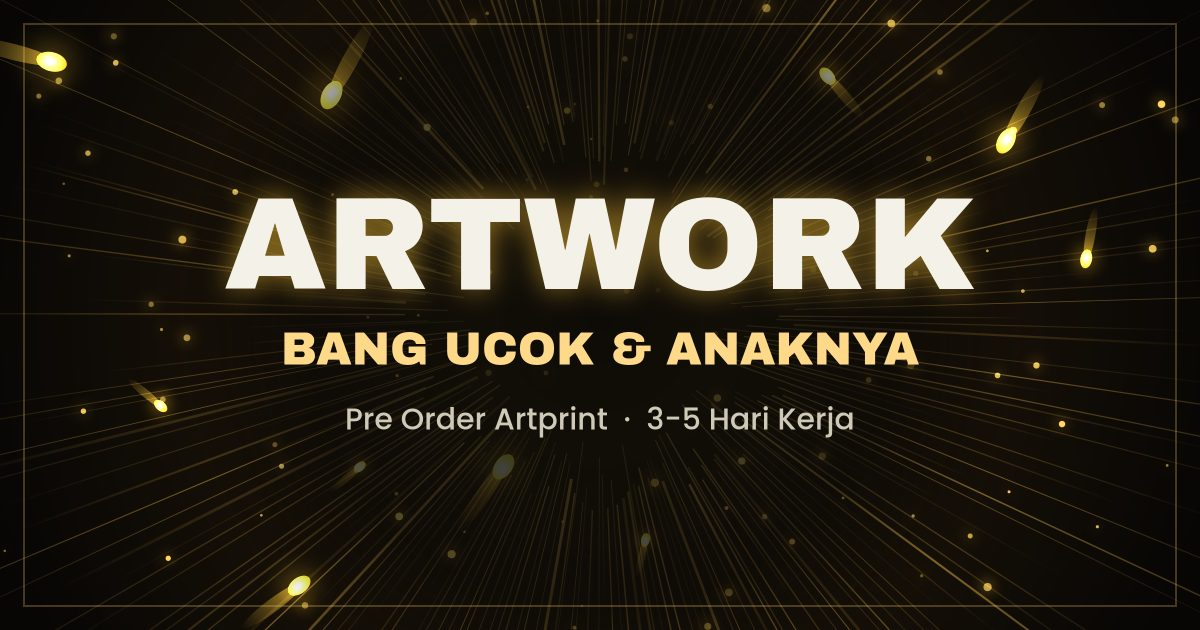
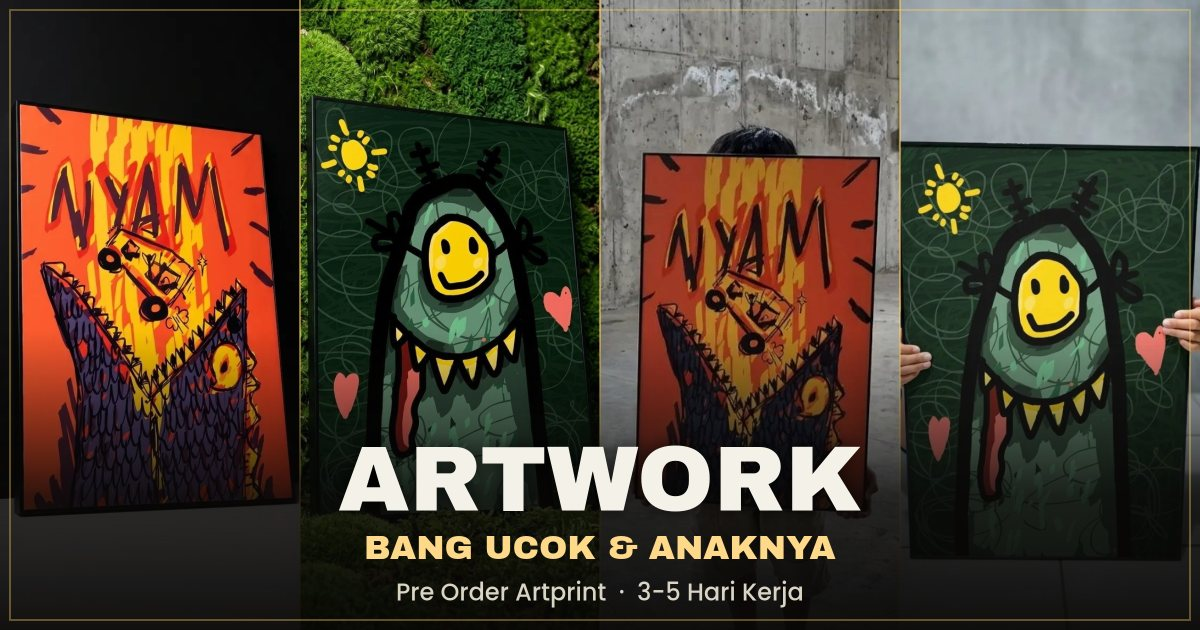
Add files via upload

diff --git a/galeri.html b/galeri.html
@@ -4,6 +4,20 @@
 <meta charset="utf-8">
 <meta name="viewport" content="width=device-width, initial-scale=1, viewport-fit=cover">
 <title>Galeri Artprint | @sayabangucok</title>
+<meta name="description" content="Pre Order Artprint karya Bang Ucok &amp; Anaknya. Pilih karya, masukkan keranjang, pesan lewat WhatsApp.">
+<!-- GANTI ALAMAT-WEBMU di semua baris di bawah ini dengan alamat web aslimu (contoh: https://namamu.github.io/namarepo), tanpa garis miring di belakangnya -->
+<link rel="canonical" href="https://ALAMAT-WEBMU/galeri.html">
+<meta property="og:type" content="website">
+<meta property="og:site_name" content="@sayabangucok">
+<meta property="og:title" content="Artwork Bang Ucok &amp; Anaknya | Pre Order Artprint">
+<meta property="og:description" content="Pilih karya, masukkan keranjang, pesan lewat WhatsApp.">
+<meta property="og:url" content="https://ALAMAT-WEBMU/galeri.html">
+<meta property="og:image" content="https://ALAMAT-WEBMU/og-galeri.jpg">
+<meta property="og:image:width" content="1200">
+<meta property="og:image:height" content="630">
+<meta name="twitter:card" content="summary_large_image">
+<meta name="twitter:title" content="Artwork Bang Ucok &amp; Anaknya | Pre Order Artprint">
+<meta name="twitter:image" content="https://ALAMAT-WEBMU/og-galeri.jpg">
 <link rel="stylesheet" href="https://fonts.googleapis.com/css2?family=Archivo+Black&family=Poppins:wght@400;500&display=swap">
 <style>
 :root{--bg:#0a0a0a;--ink:#f4f1e8;--muted:#9a9a9a;--gold:#ffd98a;color-scheme:dark;box-sizing:border-box;padding-top:env(safe-area-inset-top,0px);padding-bottom:env(safe-area-inset-bottom,0px)}
@@ -83,6 +97,22 @@ header h2{margin:8px 0 0;font-family:"Archivo Black",Impact,sans-serif;font-weig
 .toast[hidden]{display:none}
 .toast .tt{overflow:hidden;text-overflow:ellipsis;max-width:52vw}
 .toast button{border:0;background:none;color:#3a2a08;text-decoration:underline;font:inherit;cursor:pointer;padding:0}
+.flt{display:flex;gap:8px;justify-content:center;flex-wrap:wrap;margin:0 auto 22px}
+.flt button{padding:8px 16px;border-radius:999px;border:1px solid rgba(255,210,90,.55);background:rgba(255,210,90,.1);color:#ffe9a8;font-size:14px;font-weight:500;cursor:pointer;transition:background .2s,color .2s}
+.flt button[aria-pressed=true]{background:var(--gold);color:#3a2a08}
+.msg0{grid-column:1/-1;text-align:center;color:var(--muted);font-size:14px;padding:30px 0}
+.meta .by{margin:3px 0 0;color:#cfcab8;font-size:13px}
+.meta .pr{margin:4px 0 10px}
+.cnt{position:absolute;right:8px;bottom:8px;padding:2px 9px;border-radius:999px;background:#000b;color:#fff;font-size:11px;font-weight:500}
+.cartbtn b[hidden]{display:none}
+.left{min-width:0}
+.thumbs{display:flex;gap:8px;margin-top:10px;overflow-x:auto;padding-bottom:2px}
+.thumbs:empty{display:none}
+.thumbs button{flex:none;width:64px;height:80px;padding:0;border:2px solid transparent;border-radius:8px;overflow:hidden;background:#111;cursor:pointer}
+.thumbs button[aria-current=true]{border-color:var(--gold)}
+.thumbs img{width:100%;height:100%;object-fit:cover;display:block}
+.box.hasth .pic,.box.hasth .pic img{max-height:68vh}
+@media(max-width:760px){.box.hasth .pic,.box.hasth .pic img{max-height:46vh}}
 </style>
 </head>
 <body>
@@ -93,14 +123,14 @@ header h2{margin:8px 0 0;font-family:"Archivo Black",Impact,sans-serif;font-weig
 <p>Pre Order Artprint 3-5 Hari Kerja</p>
 <p>Harga belum termasuk ongkos kirim. Pembayaran dan pengiriman diatur lewat WhatsApp.</p>
 </header>
-<main><div class="grid" id="grid"></div></main>
-<p class="note">@sayabangucok - 2026.</p>
+<main><div class="flt" id="flt" role="group" aria-label="Filter artist"></div><div class="grid" id="grid"></div></main>
+<footer class="note">@sayabangucok - 2026.</footer>
 
 <div id="lb" role="dialog" aria-modal="true" aria-label="Detail karya" hidden>
 <button class="x" id="lbx" aria-label="Tutup">×</button>
 <button class="nv p" id="lbp" aria-label="Karya sebelumnya">‹</button>
 <button class="nv n" id="lbn" aria-label="Karya berikutnya">›</button>
-<div class="box"><div class="pic" id="lbpic" title="Klik untuk memperbesar"></div><div class="info" id="lbinfo"></div></div>
+<div class="box"><div class="left"><div class="pic" id="lbpic" title="Klik untuk memperbesar"></div><div class="thumbs" id="lbth"></div></div><div class="info" id="lbinfo"></div></div>
 </div>
 
 <button id="cartbtn" class="cartbtn" aria-label="Buka keranjang">🛒 Keranjang <b id="cartn" hidden>0</b></button>
@@ -125,12 +155,12 @@ var SIZES=[
 // Daftar karya. img: alamat file gambar, misalnya 'images/karya-1.jpg'.
 // id hanya huruf kecil, angka, dan tanda hubung.
 var ART=[
-  {img:'images/nyam.jpg',title:'NYAM!!!',year:2026,medium:'Anti UV Printing, Linen 230 gsm',desc:'Artist: Tuah (8YO).',bg:'linear-gradient(135deg,#1b1538,#ffd98a)'},
+  {img:'images/nyam.jpg',photos:['images/nyam-2.jpg','images/nyam-3.jpg'],title:'NYAM!!!',year:2026,medium:'Anti UV Printing, Linen 230 gsm',desc:'Artist: Tuah (8YO).',bg:'linear-gradient(135deg,#1b1538,#ffd98a)'},
   {img:'images/mikeyme.jpg',title:'Mikey Me',year:2026,medium:'Anti UV Printing, Linen 230 gsm',desc:'Artist: Bang Ucok.',bg:'linear-gradient(160deg,#0b1026,#5b3a52 60%,#f2c9a0)'},
   {img:'images/naruto.jpg',title:'Naruto',year:2025,medium:'Anti UV Printing, Linen 230 gsm',desc:'Artist: Bang Ucok.',bg:'linear-gradient(200deg,#111,#3e5a8a)'},
   {img:'images/terjebakalien.jpg',title:'Terjebak Alien',year:2025,medium:'Anti UV Printing, Linen 230 gsm',desc:'Artist: Tuah (5YO).',bg:'linear-gradient(120deg,#2b1d1a,#ff9bd2)'},
   {img:'images/fishface.jpg',title:'Fish Face',year:2024,medium:'Anti UV Printing, Linen 230 gsm',desc:'Artist: Bang Ucok.',bg:'linear-gradient(170deg,#0a0a0a,#f5b400)'},
-  {img:'images/smileplankton.jpg',title:'Smile Plankton',year:2024,medium:'Anti UV Printing, Linen 230 gsm',desc:'Artist: Tuah (8YO).',bg:'linear-gradient(145deg,#1b1538,#3e5a8a 55%,#fffaf0)'},
+  {img:'images/smileplankton.jpg',photos:['images/smileplankton-2.jpg','images/smileplankton-3.jpg'],title:'Smile Plankton',year:2024,medium:'Anti UV Printing, Linen 230 gsm',desc:'Artist: Tuah (8YO).',bg:'linear-gradient(145deg,#1b1538,#3e5a8a 55%,#fffaf0)'},
   {img:'images/eyespiration.jpg',title:'Eyespiration',year:2024,medium:'Anti UV Printing, Linen 230 gsm',desc:'Artist: Bang Ucok.',bg:'linear-gradient(145deg,#1b1538,#3e5a8a 55%,#fffaf0)'}
 ];
 /* ====== SELESAI ====== */
@@ -149,10 +179,22 @@ function wa(a,s){
   var t='Halo, saya tertarik membeli artprint "'+a.title+'"'+(s?' ukuran '+s.label+' ('+rp(s.price)+')':'')+'. Apakah masih tersedia?';
   window.open('https://wa.me/'+WA_NUMBER+'?text='+encodeURIComponent(t),'_blank','noopener');
 }
-grid.innerHTML=ART.map(function(a,i){
-  var lo=Math.min.apply(null,sz(a).map(function(s){return s.price}));
-  return '<article class="card"><button class="thumb" data-i="'+i+'" aria-label="Lihat detail '+esc(a.title)+'">'+pic(a)+(a.sold?'<b class="sold">Terjual</b>':'')+'</button><div class="meta"><h3>'+esc(a.title)+'</h3><p>mulai '+rp(lo)+'</p><button class="buy" data-b="'+i+'"'+(a.sold?' disabled':'')+'>'+(a.sold?'Terjual':'+ Keranjang')+'</button></div></article>';
-}).join('');
+var FILT=[['all','All'],['Bang Ucok','Bang Ucok'],['Hang Tuah','Hang Tuah']],fil='all',vis=[];
+function who(a){var d=a.desc||'';return a.by||(/tuah/i.test(d)?'Hang Tuah':/ucok/i.test(d)?'Bang Ucok':'')}
+function renderGrid(){
+  vis=[];
+  grid.innerHTML=ART.map(function(a,i){
+    if(fil!=='all'&&who(a)!==fil)return '';
+    vis.push(i);
+    var lo=Math.min.apply(null,sz(a).map(function(s){return s.price})),np=(a.photos||[]).length;
+    return '<article class="card"><button class="thumb" data-i="'+i+'" aria-label="Lihat detail '+esc(a.title)+'">'+pic(a)+(a.sold?'<b class="sold">Terjual</b>':'')+(np?'<b class="cnt">+'+np+' foto</b>':'')+'</button><div class="meta"><h3>'+esc(a.title)+'</h3>'+(a.desc?'<p class="by">'+esc(a.desc)+'</p>':'')+'<p class="pr">mulai '+rp(lo)+'</p><button class="buy" data-b="'+i+'"'+(a.sold?' disabled':'')+'>'+(a.sold?'Terjual':'+ Keranjang')+'</button></div></article>';
+  }).join('');
+  if(!vis.length)grid.innerHTML='<p class="msg0">Belum ada karya di kategori ini.</p>';
+}
+var flt=$('#flt');
+flt.innerHTML=FILT.map(function(f){return '<button data-f="'+esc(f[0])+'" aria-pressed="'+(f[0]===fil)+'">'+esc(f[1])+'</button>'}).join('');
+flt.addEventListener('click',function(e){var b=e.target.closest('[data-f]');if(!b)return;fil=b.dataset.f;[].forEach.call(flt.children,function(x){x.setAttribute('aria-pressed',x===b)});renderGrid()});
+renderGrid();
 grid.addEventListener('click',function(e){
   var t=e.target.closest('[data-i]');if(t){last=t;openLB(+t.dataset.i);return}
   var b=e.target.closest('[data-b]');if(b&&!b.disabled)addCart(+b.dataset.b,0);
@@ -161,9 +203,20 @@ function info(){
   var a=ART[cur],S=sz(a),s=S[sel];
   lbinfo.innerHTML='<h2>'+esc(a.title)+'</h2><div class="sub">'+esc(a.year)+' · '+esc(a.medium)+'</div><p>'+esc(a.desc)+'</p><div class="chips" role="group" aria-label="Pilih ukuran">'+S.map(function(x,i){return '<button class="chip" data-s="'+i+'" aria-pressed="'+(i===sel)+'">'+esc(x.label)+'</button>'}).join('')+'</div><div class="price">'+rp(s.price)+'</div><button class="wa" id="lbadd"'+(a.sold?' disabled':'')+'>'+(a.sold?'Terjual':'+ Keranjang')+'</button>'+(a.sold?'':'<button class="wa ghost" id="lbwa">Beli langsung via WhatsApp</button>');
 }
+var ph=0;
+function photos(a){return a.img?[a.img].concat(a.photos||[]):[]}
+function showPhoto(){
+  var a=ART[cur],P=photos(a),th=$('#lbth');
+  lbpic.classList.remove('z');
+  lbpic.innerHTML=P.length?'<img src="'+esc(P[ph])+'" alt="'+esc(a.title)+(ph?' foto '+ph:'')+'">':pic(a);
+  th.innerHTML=P.length>1?P.map(function(src,k){return '<button data-p="'+k+'" aria-label="'+(k?'Foto '+k:'Gambar karya')+'" aria-current="'+(k===ph)+'"><img src="'+esc(src)+'" alt=""></button>'}).join(''):'';
+  lb.querySelector('.box').classList.toggle('hasth',P.length>1);
+}
+$('#lbth').addEventListener('click',function(e){var b=e.target.closest('[data-p]');if(!b)return;ph=+b.dataset.p;showPhoto()});
+function nav(d){if(!vis.length)return;var p=vis.indexOf(cur);if(p<0)p=0;openLB(vis[(p+d+vis.length)%vis.length])}
 function openLB(i){
   cur=(i+ART.length)%ART.length;sel=0;
-  lbpic.classList.remove('z');lbpic.innerHTML=pic(ART[cur]);info();
+  ph=0;showPhoto();info();
   lb.hidden=false;document.body.style.overflow='hidden';$('#lbx').focus();
   try{if(location.hash!=='#'+ART[cur].id)location.hash=ART[cur].id}catch(e){}
 }
@@ -179,16 +232,16 @@ lbinfo.addEventListener('click',function(e){
 });
 lbpic.addEventListener('click',function(){if(lbpic.querySelector('img'))lbpic.classList.toggle('z')});
 $('#lbx').onclick=closeLB;
-$('#lbp').onclick=function(){openLB(cur-1)};
-$('#lbn').onclick=function(){openLB(cur+1)};
+$('#lbp').onclick=function(){nav(-1)};
+$('#lbn').onclick=function(){nav(1)};
 lb.addEventListener('click',function(e){if(e.target===lb)closeLB()});
 document.addEventListener('keydown',function(e){
   if(lb.hidden)return;
-  if(e.key==='Escape')closeLB();else if(e.key==='ArrowLeft')openLB(cur-1);else if(e.key==='ArrowRight')openLB(cur+1);
+  if(e.key==='Escape')closeLB();else if(e.key==='ArrowLeft')nav(-1);else if(e.key==='ArrowRight')nav(1);
 });
 function fromHash(){
   var id=location.hash.slice(1),i=ART.findIndex(function(a){return a.id===id});
-  if(i>=0){if(i!==cur)openLB(i)}else if(!lb.hidden){lb.hidden=true;document.body.style.overflow='';cur=-1}
+  if(i>=0){if(vis.indexOf(i)<0){fil='all';[].forEach.call(flt.children,function(x){x.setAttribute('aria-pressed',x.dataset.f==='all')});renderGrid()}if(i!==cur)openLB(i)}else if(!lb.hidden){lb.hidden=true;document.body.style.overflow='';cur=-1}
 }
 var CK='galeri:cart',cart=[],tm=0;
 var cartd=$('#cartd'),cartl=$('#cartl'),cartn=$('#cartn'),toastEl=$('#toast');
